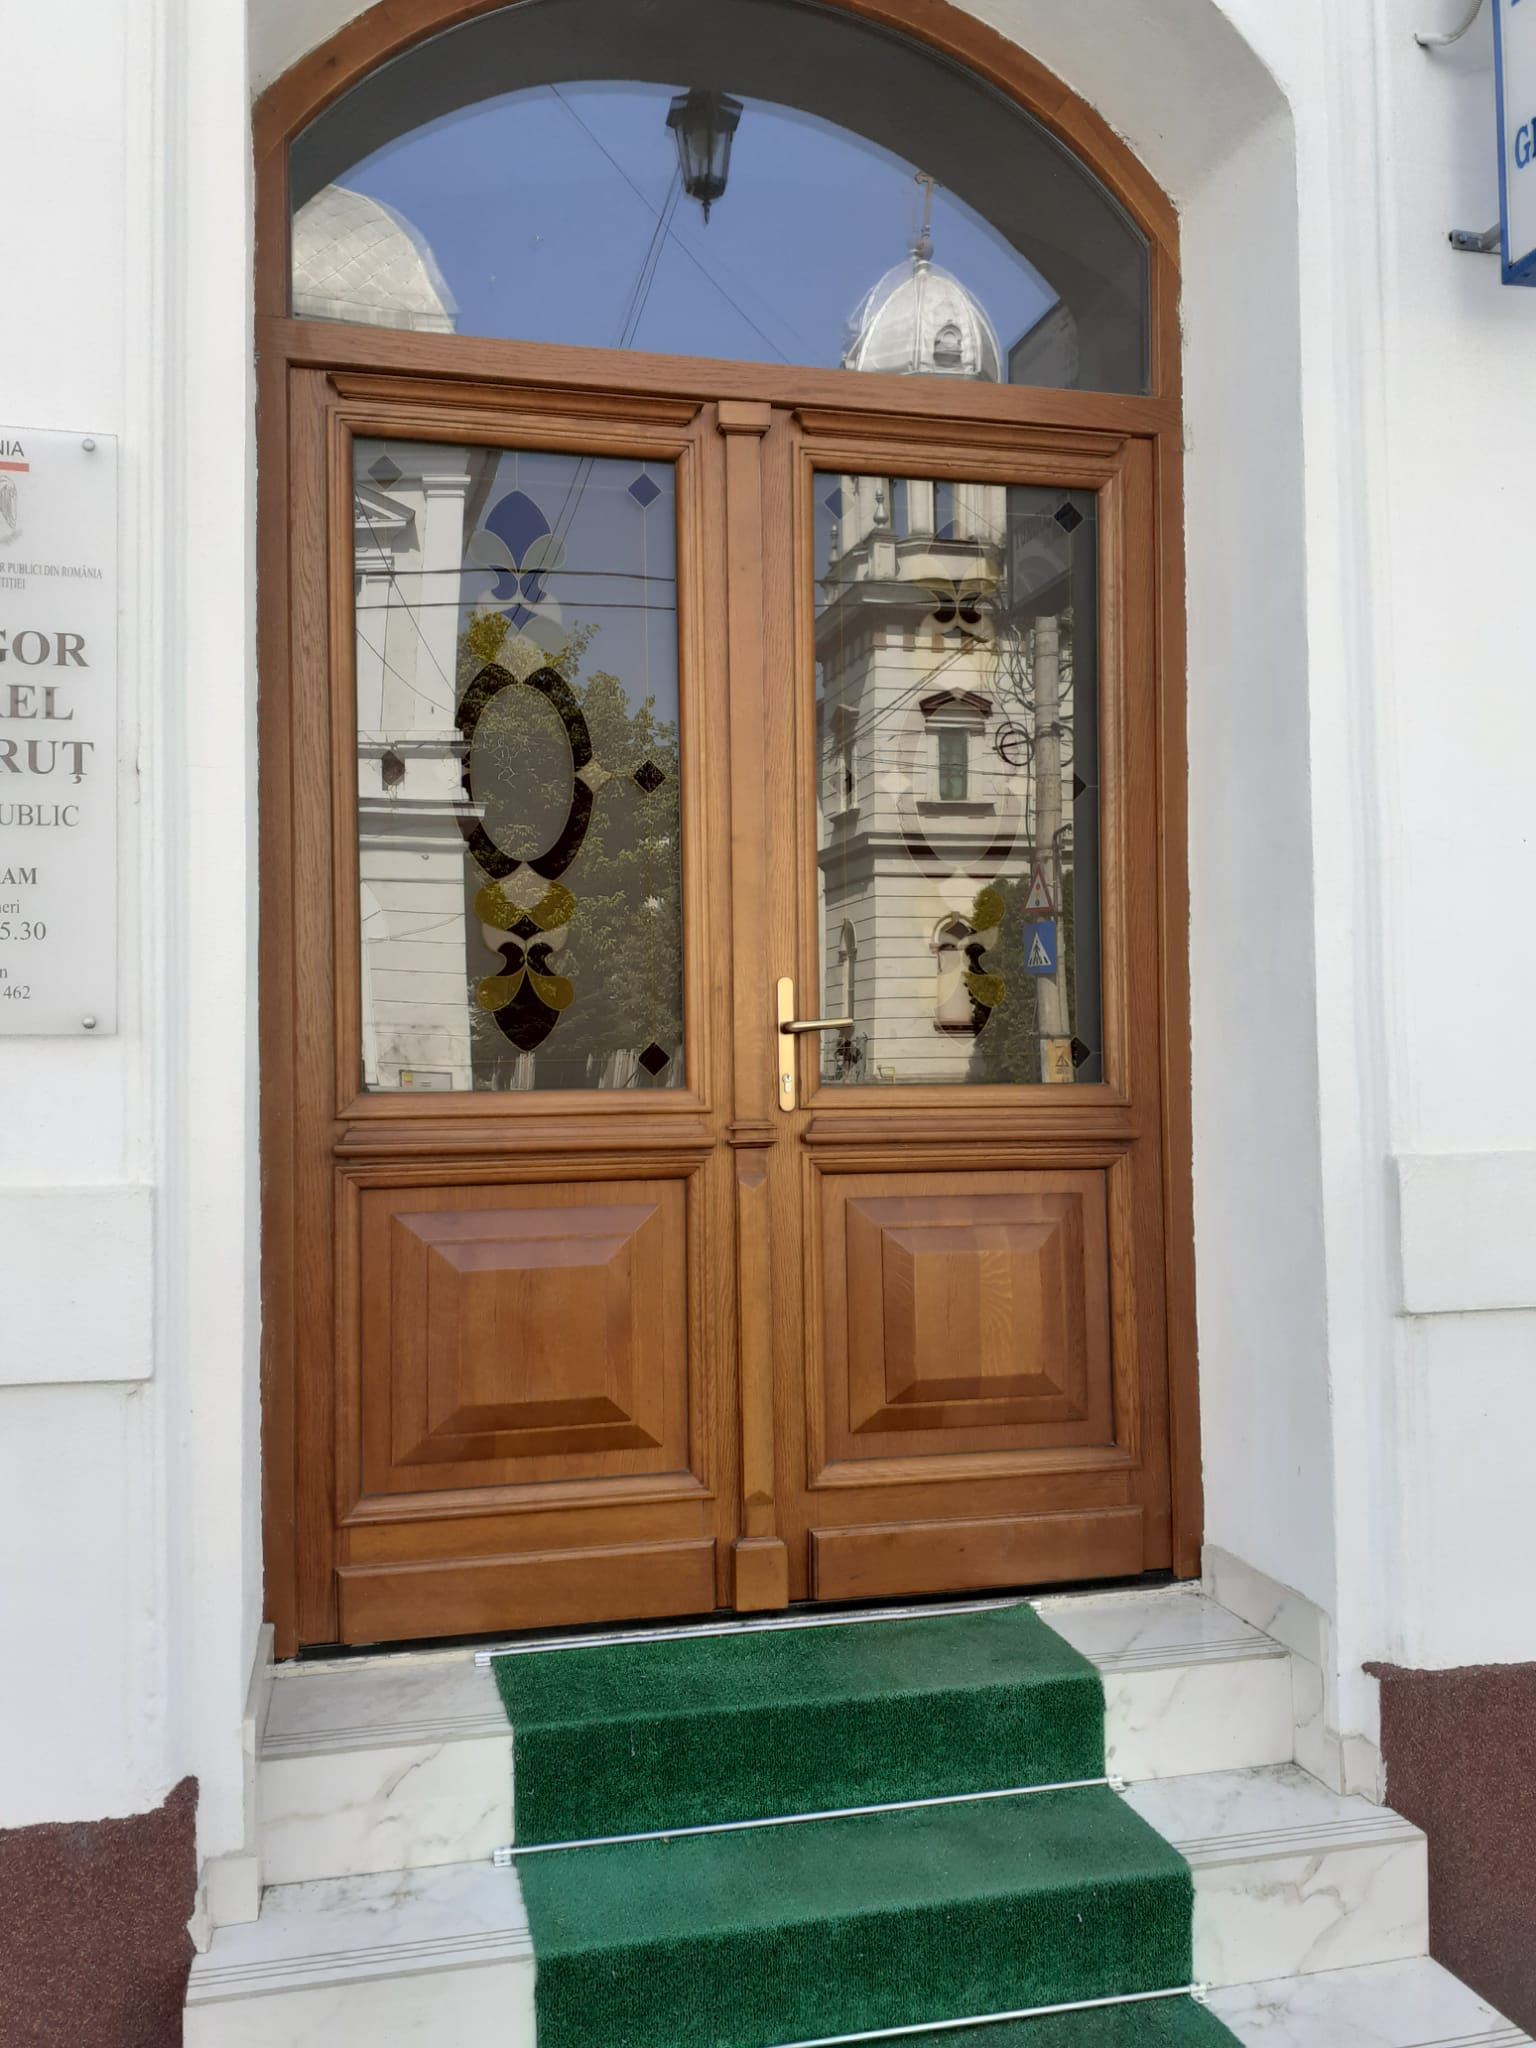
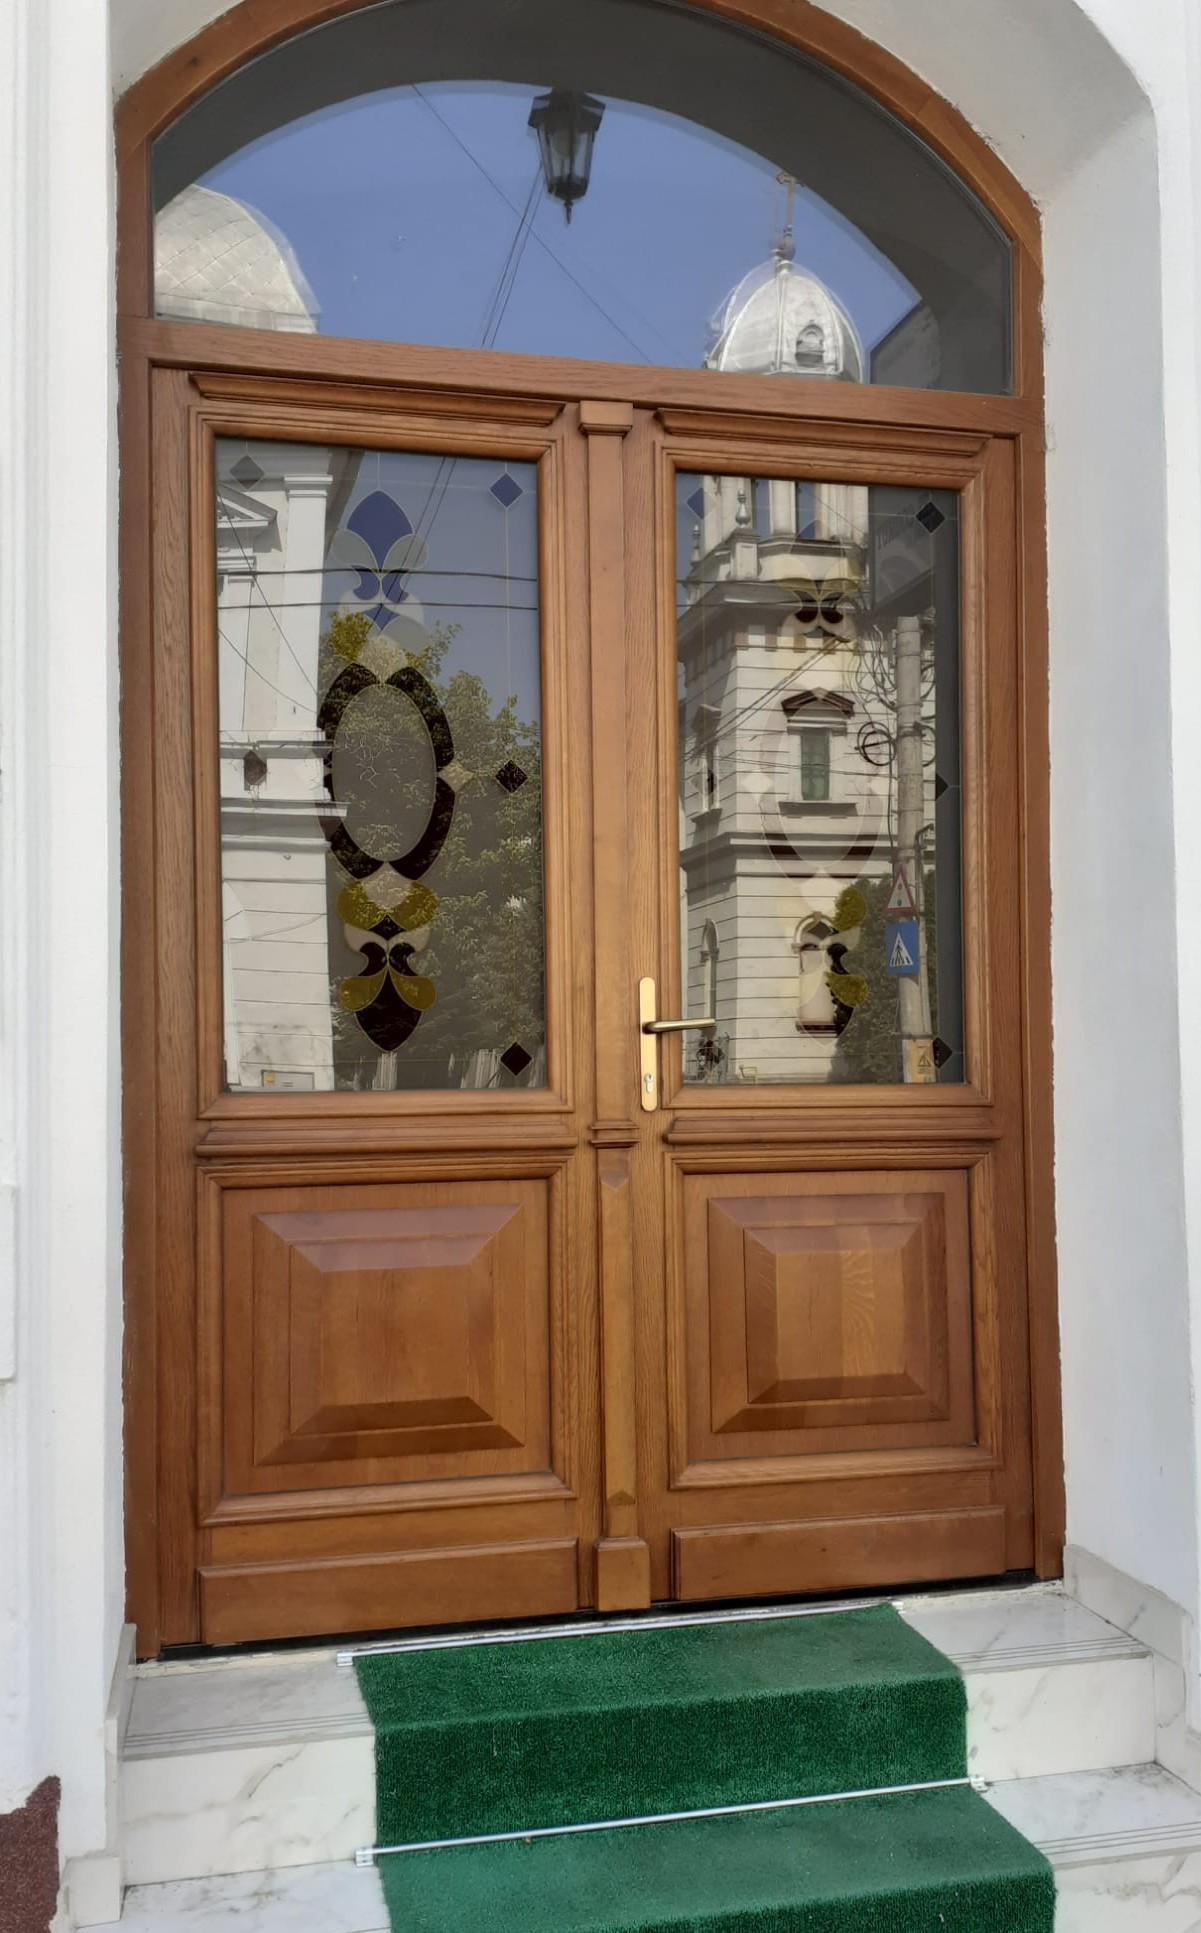
Updates.

diff --git a/src/routes/+page.svelte b/src/routes/+page.svelte
@@ -207,7 +207,7 @@
 		</button>
 		<div class="relative z-10 mx-auto max-w-7xl px-4 py-20 pt-32 sm:px-6 lg:px-8">
 			<div class="grid items-center gap-12 lg:grid-cols-2">
-				<div class="animate-fade-in space-y-8">
+				<div class="animate-fade-in space-y-6">
 					<div class="flex flex-wrap gap-2">
 						<span class="rounded-full bg-amber-100 px-4 py-2 text-sm font-semibold text-amber-800">
 							{t.hero.badge}
@@ -216,13 +216,80 @@
 							{t.hero.manufacturerBadge}
 						</span>
 					</div>
-					<h1 class="text-5xl leading-tight font-bold text-gray-900 lg:text-6xl">
+					<h1 class="text-4xl leading-tight font-bold text-gray-900 lg:text-5xl">
 						{t.hero.title}
 						<span class="text-amber-700"> {t.hero.titleHighlight}</span>
 					</h1>
-					<p class="text-xl leading-relaxed text-gray-600">
+					<p class="text-lg leading-relaxed text-gray-600">
 						{t.hero.description}
 					</p>
+					<div class="rounded-2xl bg-green-100/60 p-4">
+						<div class="flex items-start gap-3">
+							<svg
+								class="mt-0.5 h-6 w-6 flex-shrink-0 text-green-600"
+								viewBox="0 0 24 24"
+								fill="none"
+								stroke="currentColor"
+								stroke-width="2"
+								stroke-linecap="round"
+								stroke-linejoin="round"
+							>
+								<path
+									d="M12 22c5.523 0 10-4.477 10-10S17.523 2 12 2 2 6.477 2 12s4.477 10 10 10z"
+								/>
+								<path d="M7 12.5l3 3 7-7" />
+							</svg>
+							<div>
+								<p class="text-sm leading-relaxed text-gray-700">
+									{t.hero.subsidyText}
+								</p>
+								<div class="mt-2 flex flex-wrap gap-3">
+									<a
+										href="https://www.rvo.nl/subsidies-financiering/isde"
+										target="_blank"
+										rel="noopener noreferrer"
+										class="inline-flex items-center gap-1 text-sm font-medium text-green-700 underline hover:text-green-800"
+									>
+										{t.hero.subsidyLinkISDE}
+										<svg
+											class="h-4 w-4"
+											viewBox="0 0 24 24"
+											fill="none"
+											stroke="currentColor"
+											stroke-width="2"
+											stroke-linecap="round"
+											stroke-linejoin="round"
+										>
+											<path d="M18 13v6a2 2 0 0 1-2 2H5a2 2 0 0 1-2-2V8a2 2 0 0 1 2-2h6" />
+											<polyline points="15 3 21 3 21 9" />
+											<line x1="10" y1="14" x2="21" y2="3" />
+										</svg>
+									</a>
+									<a
+										href="https://www.rvo.nl/subsidies-financiering/svve"
+										target="_blank"
+										rel="noopener noreferrer"
+										class="inline-flex items-center gap-1 text-sm font-medium text-green-700 underline hover:text-green-800"
+									>
+										{t.hero.subsidyLinkSVVE}
+										<svg
+											class="h-4 w-4"
+											viewBox="0 0 24 24"
+											fill="none"
+											stroke="currentColor"
+											stroke-width="2"
+											stroke-linecap="round"
+											stroke-linejoin="round"
+										>
+											<path d="M18 13v6a2 2 0 0 1-2 2H5a2 2 0 0 1-2-2V8a2 2 0 0 1 2-2h6" />
+											<polyline points="15 3 21 3 21 9" />
+											<line x1="10" y1="14" x2="21" y2="3" />
+										</svg>
+									</a>
+								</div>
+							</div>
+						</div>
+					</div>
 					<div class="flex flex-col gap-4 sm:flex-row">
 						<button
 							onclick={() => scrollToSection('contact')}
@@ -239,14 +306,14 @@
 						</button>
 					</div>
 				</div>
-				<div class="animate-slide-in relative lg:h-[600px]">
+				<div class="animate-slide-in relative h-[500px] w-full lg:h-[700px] lg:w-[400px]">
 					<div
 						class="absolute inset-0 rotate-3 transform rounded-3xl bg-gradient-to-br from-amber-400 to-orange-500 opacity-20"
 					></div>
 					<img
-						src="https://images.unsplash.com/photo-1558618666-fcd25c85cd64?w=800&h=600&fit=crop"
-						alt="Beautiful wooden window craftsmanship"
-						class="relative h-full w-full rounded-3xl object-cover shadow-2xl"
+						src="{base}/projects/front-door-and-windows/Photo4.jpeg"
+						alt="Carpenter installing wooden window with tools"
+						class="relative h-full w-full rounded-3xl object-cover object-center shadow-2xl"
 					/>
 				</div>
 			</div>
@@ -272,6 +339,29 @@
 			</div>
 
 			<div class="grid gap-8 md:grid-cols-2 lg:grid-cols-2">
+				<ServiceCard
+					title={t.services.subsidyEligible.title}
+					description={t.services.subsidyEligible.description}
+					features={t.services.subsidyEligible.features}
+					isPrimary={true}
+				>
+					{#snippet icon()}
+						<svg
+							class="h-12 w-12"
+							viewBox="0 0 24 24"
+							fill="none"
+							stroke="currentColor"
+							stroke-width="1.5"
+							stroke-linecap="round"
+							stroke-linejoin="round"
+						>
+							<path d="M12 22c5.523 0 10-4.477 10-10S17.523 2 12 2 2 6.477 2 12s4.477 10 10 10z" />
+							<path d="M8 12l2 2 4-4" />
+							<path d="M12 6v2" />
+							<path d="M12 16v2" />
+						</svg>
+					{/snippet}
+				</ServiceCard>
 				<ServiceCard
 					title={t.services.woodenJoinery.title}
 					description={t.services.woodenJoinery.description}
@@ -345,6 +435,32 @@
 				>
 					{#snippet icon()}
 						<Shield class="h-12 w-12" />
+					{/snippet}
+				</ServiceCard>
+				<ServiceCard
+					title={t.services.flooring.title}
+					description={t.services.flooring.description}
+					features={t.services.flooring.features}
+				>
+					{#snippet icon()}
+						<svg
+							class="h-12 w-12"
+							viewBox="0 0 24 24"
+							fill="none"
+							stroke="currentColor"
+							stroke-width="1.5"
+							stroke-linecap="round"
+							stroke-linejoin="round"
+						>
+							<rect x="2" y="6" width="20" height="12" rx="1" />
+							<line x1="2" y1="10" x2="22" y2="10" />
+							<line x1="2" y1="14" x2="22" y2="14" />
+							<line x1="6" y1="6" x2="6" y2="10" />
+							<line x1="12" y1="10" x2="12" y2="14" />
+							<line x1="18" y1="6" x2="18" y2="10" />
+							<line x1="6" y1="14" x2="6" y2="18" />
+							<line x1="18" y1="14" x2="18" y2="18" />
+						</svg>
 					{/snippet}
 				</ServiceCard>
 			</div>
@@ -455,22 +571,21 @@
 				<h2 class="mb-4 text-4xl font-bold text-gray-900">
 					{t.cases.title}
 				</h2>
-				<p class="mx-auto max-w-3xl text-xl text-gray-600">
-					{t.cases.subtitle}
-				</p>
 			</div>
 
-			<div class="grid gap-8 md:grid-cols-2 lg:grid-cols-3">
+			<div class="grid items-start gap-8 md:grid-cols-2 lg:grid-cols-3">
 				<CaseStudy
 					images={[
-						`${base}/projects/staircase/Photo1.jpeg`,
-						`${base}/projects/staircase/Photo2.jpeg`,
-						`${base}/projects/staircase/Photo3.jpeg`,
-						`${base}/projects/staircase/Photo4.jpeg`
+						`${base}/projects/front-door-and-windows/Photo1.jpeg`,
+						`${base}/projects/front-door-and-windows/Photo2.jpeg`,
+						`${base}/projects/front-door-and-windows/Photo3.jpeg`,
+						`${base}/projects/front-door-and-windows/Photo4.jpeg`,
+						`${base}/projects/front-door-and-windows/Photo5.jpeg`,
+						`${base}/projects/front-door-and-windows/Photo6.jpeg`
 					]}
-					title={t.cases.project1.title}
-					description={t.cases.project1.description}
-					results={t.cases.project1.results}
+					title={t.cases.project3.title}
+					description={t.cases.project3.description}
+					results={t.cases.project3.results}
 				/>
 				<CaseStudy
 					images={[
@@ -486,16 +601,17 @@
 				/>
 				<CaseStudy
 					images={[
-						`${base}/projects/front-door-and-windows/Photo1.jpeg`,
-						`${base}/projects/front-door-and-windows/Photo2.jpeg`,
-						`${base}/projects/front-door-and-windows/Photo3.jpeg`,
-						`${base}/projects/front-door-and-windows/Photo4.jpeg`,
-						`${base}/projects/front-door-and-windows/Photo5.jpeg`,
-						`${base}/projects/front-door-and-windows/Photo6.jpeg`
+						`${base}/projects/staircase/Photo1.jpeg`,
+						`${base}/projects/staircase/Photo2.jpeg`,
+						`${base}/projects/staircase/Photo3.jpeg`,
+						`${base}/projects/staircase/Photo4.jpeg`,
+						`${base}/projects/staircase/Photo5.jpeg`,
+						`${base}/projects/staircase/Photo6.jpeg`,
+						`${base}/projects/staircase/Photo7.jpeg`
 					]}
-					title={t.cases.project3.title}
-					description={t.cases.project3.description}
-					results={t.cases.project3.results}
+					title={t.cases.project1.title}
+					description={t.cases.project1.description}
+					results={t.cases.project1.results}
 				/>
 			</div>
 		</div>

diff --git a/src/lib/translations.ts b/src/lib/translations.ts
@@ -20,6 +20,9 @@ export interface Translation {
 		title: string;
 		titleHighlight: string;
 		description: string;
+		subsidyText: string;
+		subsidyLinkISDE: string;
+		subsidyLinkSVVE: string;
 		ctaPrimary: string;
 		ctaSecondary: string;
 		stats: {
@@ -49,6 +52,16 @@ export interface Translation {
 			features: string[];
 		};
 		pvcAluminum: {
+			title: string;
+			description: string;
+			features: string[];
+		};
+		subsidyEligible: {
+			title: string;
+			description: string;
+			features: string[];
+		};
+		flooring: {
 			title: string;
 			description: string;
 			features: string[];
@@ -174,7 +187,11 @@ export const translations: Record<Language, Translation> = {
 			title: 'Premium Wooden Joinery &',
 			titleHighlight: 'Thermal Efficiency',
 			description:
-				'Expert craftsmen manufacturing custom wooden windows, doors, and interior joinery with thermal spacer glass. Also available in PVC and aluminum. Direct from our workshop to your home – quality guaranteed.',
+				'Expert craftsmen manufacturing custom wooden windows, doors, and interior joinery with thermal spacer glass. Also available in PVC and aluminum.',
+			subsidyText:
+				'Our products meet the requirements for Dutch government energy subsidies! Ask us about ISDE (homeowners) and SVVE (VvE associations) eligible window and door options.',
+			subsidyLinkISDE: 'ISDE Program',
+			subsidyLinkSVVE: 'SVVE Program',
 			ctaPrimary: 'Request Free Quote',
 			ctaSecondary: 'View Our Services',
 			stats: {
@@ -214,7 +231,8 @@ export const translations: Record<Language, Translation> = {
 					'Wood repairs & replacements',
 					'Thermal glass spacers',
 					'Window restoration',
-					'Door refurbishment'
+					'Door refurbishment',
+					'Full interior renovation (tiles, painting, repairs)'
 				]
 			},
 			pvcAluminum: {
@@ -226,6 +244,29 @@ export const translations: Record<Language, Translation> = {
 					'Thermal break profiles',
 					'Modern aesthetics',
 					'Color options'
+				]
+			},
+			subsidyEligible: {
+				title: 'Subsidy-Eligible Products',
+				description:
+					'Maximize your savings with our ISDE & SVVE eligible products. We install energy-efficient windows and doors that meet Dutch government subsidy requirements, helping you reduce costs while improving your home.',
+				features: [
+					'HR++ glass (U ≤ 1.2 W/m²K)',
+					'Triple glass (U ≤ 0.7 W/m²K)',
+					'Insulating doors (Ud ≤ 1.0-1.5)',
+					'Thermal break frames',
+					'Approved meldcode products'
+				]
+			},
+			flooring: {
+				title: 'Wood & Parquet Flooring',
+				description:
+					'Professional installation of premium wood and parquet flooring. From classic herringbone patterns to modern wide planks, we deliver beautiful, durable floors crafted with precision.',
+				features: [
+					'Solid wood flooring',
+					'Parquet patterns',
+					'Engineered wood',
+					'Sanding & refinishing'
 				]
 			}
 		},
@@ -258,15 +299,10 @@ export const translations: Record<Language, Translation> = {
 			title: 'Our Recent Projects',
 			subtitle: 'Quality craftsmanship across Belgium and beyond',
 			project1: {
-				title: 'Wooden Staircase',
+				title: 'Staircases & Furniture',
 				description:
-					'Custom-crafted solid wood staircase with elegant balustrades and hand-finished details. A stunning centerpiece that combines traditional joinery with modern design aesthetics.',
-				results: [
-					'Solid hardwood construction',
-					'Custom balustrade design',
-					'Hand-finished to perfection',
-					'Built to last generations'
-				]
+					'Bespoke wooden staircases and custom furniture crafted with precision. From grand statement staircases to elegant wardrobes and cabinets, each piece showcases traditional joinery techniques combined with contemporary design.',
+				results: ['Custom staircase design', 'Built-in wardrobes & cabinets', 'Made to measure']
 			},
 			project2: {
 				title: 'Apartment Renovation',
@@ -363,7 +399,11 @@ export const translations: Record<Language, Translation> = {
 			title: 'Premium Houten Schrijnwerk &',
 			titleHighlight: 'Thermische Efficiëntie',
 			description:
-				'Vakbekwame ambachtslieden die op maat gemaakte houten ramen, deuren en interieur schrijnwerk vervaardigen met thermisch isolerend glas. Ook verkrijgbaar in PVC en aluminium. Direct van onze werkplaats naar uw woning – kwaliteit gegarandeerd.',
+				'Vakbekwame ambachtslieden die op maat gemaakte houten ramen, deuren en interieur schrijnwerk vervaardigen met thermisch isolerend glas. Ook verkrijgbaar in PVC en aluminium.',
+			subsidyText:
+				'Onze producten voldoen aan de eisen voor overheidssubsidies! Vraag ons naar ISDE (woningeigenaren) en SVVE (VvE) geschikte raam- en deuropties.',
+			subsidyLinkISDE: 'ISDE Regeling',
+			subsidyLinkSVVE: 'SVVE Regeling',
 			ctaPrimary: 'Gratis Offerte Aanvragen',
 			ctaSecondary: 'Bekijk Onze Diensten',
 			stats: {
@@ -403,7 +443,8 @@ export const translations: Record<Language, Translation> = {
 					'Houtreparaties & vervangingen',
 					'Thermische glasspacers',
 					'Raamrestauratie',
-					'Deuropknapbeurt'
+					'Deuropknapbeurt',
+					'Volledige interieurrenovatie (tegels, schilderwerk, reparaties)'
 				]
 			},
 			pvcAluminum: {
@@ -416,6 +457,24 @@ export const translations: Record<Language, Translation> = {
 					'Moderne esthetiek',
 					'Kleuropties'
 				]
+			},
+			subsidyEligible: {
+				title: 'Subsidie-Geschikte Producten',
+				description:
+					'Maximaliseer uw besparing met onze ISDE & SVVE geschikte producten. Wij installeren energiezuinige ramen en deuren die voldoen aan de eisen voor overheidssubsidies, zodat u kosten bespaart én uw woning verbetert.',
+				features: [
+					'HR++ glas (U ≤ 1,2 W/m²K)',
+					'Triple glas (U ≤ 0,7 W/m²K)',
+					'Isolerende deuren (Ud ≤ 1,0-1,5)',
+					'Thermisch onderbroken kozijnen',
+					'Goedgekeurde meldcode producten'
+				]
+			},
+			flooring: {
+				title: 'Houten & Parketvloeren',
+				description:
+					'Professionele installatie van premium houten en parketvloeren. Van klassieke visgraatpatronen tot moderne brede planken, wij leveren prachtige, duurzame vloeren met precisie gelegd.',
+				features: ['Massief houten vloeren', 'Parketpatronen', 'Multiplank', 'Schuren & renoveren']
 			}
 		},
 		advantages: {
@@ -447,15 +506,10 @@ export const translations: Record<Language, Translation> = {
 			title: 'Onze Recente Projecten',
 			subtitle: 'Kwaliteitsambacht door heel België en daarbuiten',
 			project1: {
-				title: 'Houten Trap',
+				title: 'Trappen & Meubilair',
 				description:
-					'Op maat gemaakte massief houten trap met elegante balustraden en met de hand afgewerkte details. Een prachtig middelpunt dat traditioneel vakmanschap combineert met moderne designesthetiek.',
-				results: [
-					'Massief hardhouten constructie',
-					'Op maat ontworpen balustrade',
-					'Met de hand afgewerkt',
-					'Gebouwd voor generaties'
-				]
+					'Op maat gemaakte houten trappen en custom meubilair met precisie vervaardigd. Van imposante trappen tot elegante kasten en inbouwmeubelen, elk stuk toont traditioneel vakmanschap gecombineerd met hedendaags design.',
+				results: ['Op maat ontworpen trappen', 'Inbouwkasten & kasten', 'Op maat gemaakt']
 			},
 			project2: {
 				title: 'Appartement Renovatie',
